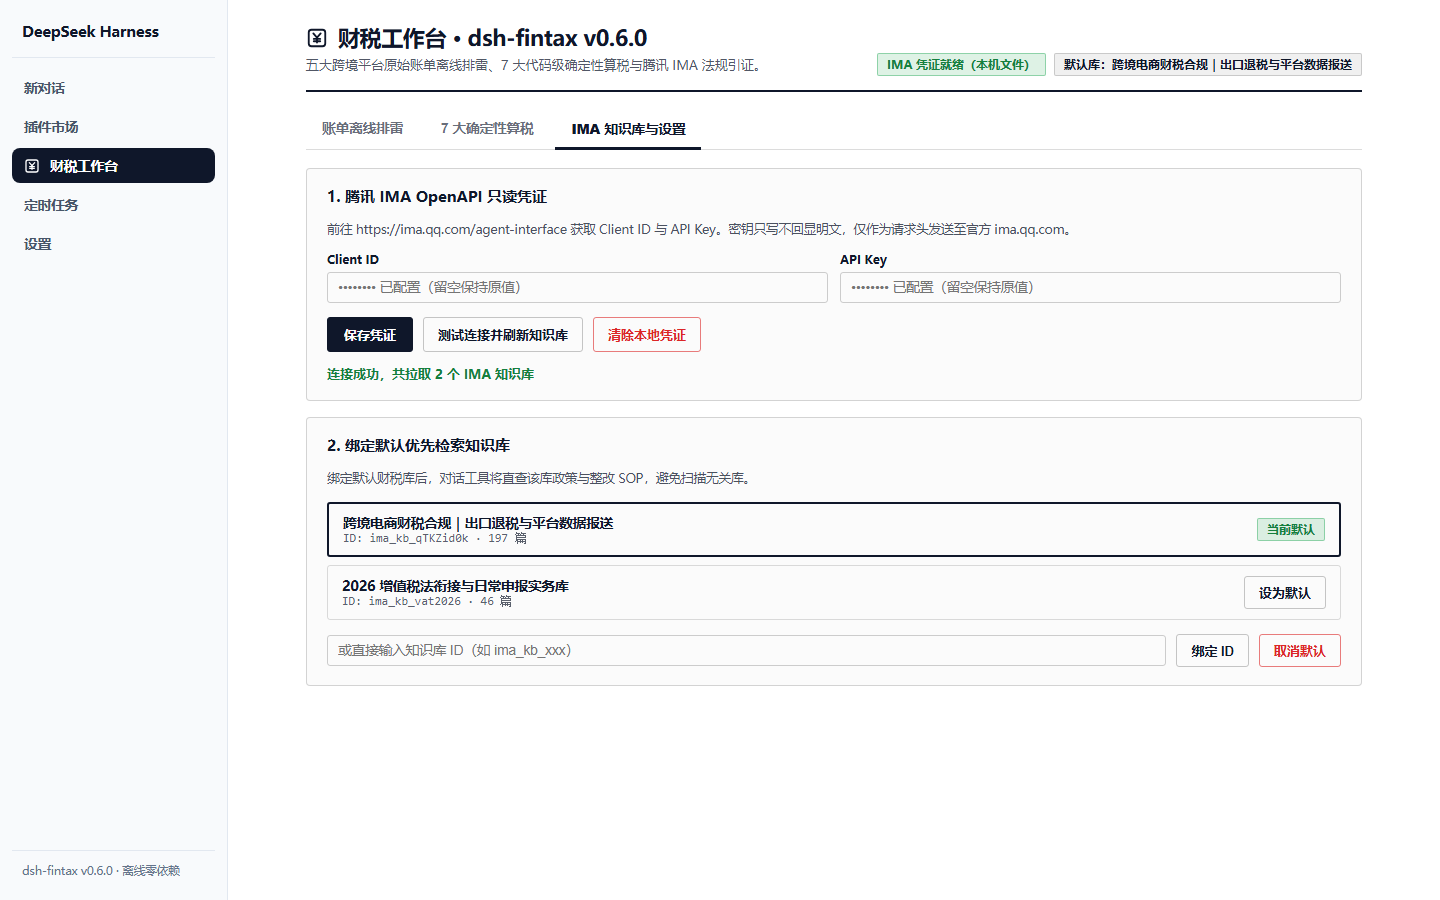
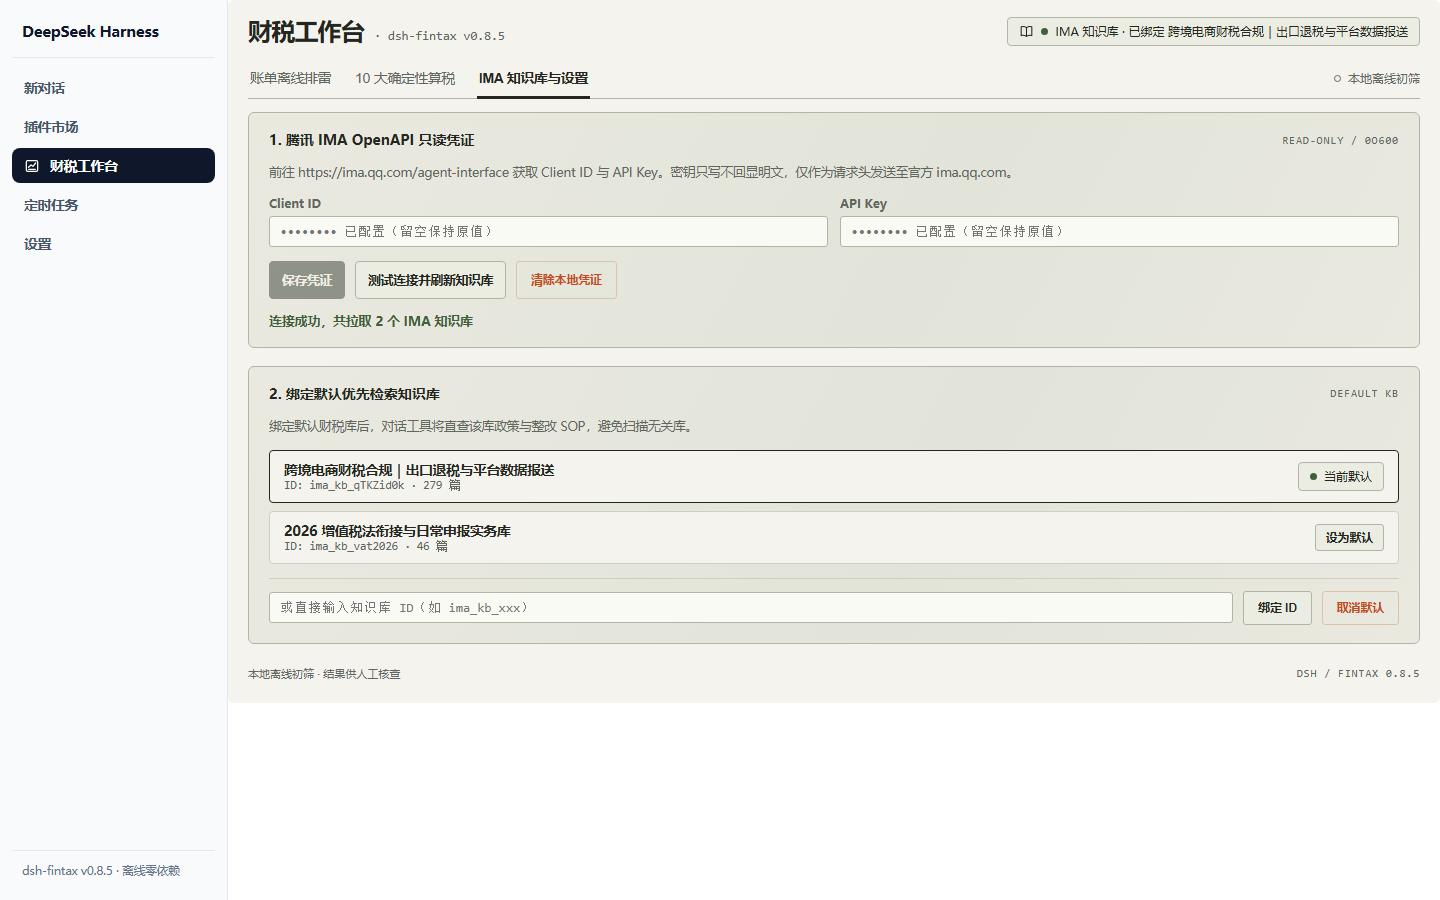
chore(release): release v0.8.5 IMA V2.4.1 retrieval sync, storefront refresh & issue templates

diff --git a/lib/ima.js b/lib/ima.js
@@ -390,20 +390,20 @@ const FIN_TAX_TERMS = [
   ['汇算', /汇算|年度汇缴/],
   ['开账', /开账|建账|新建账套/],
   ['月结', /月结|月底结账|锁表|月度关账/],
-  ['退运', /退运|退回国内|复运进境/],
+  ['退运', /退运|退回国内|复运进境|16号/],
   ['信保', /信保|出口信用保险/],
   ['免抵退', /免抵退|免、抵、退/],
   ['疑点反馈', /疑点.{0,4}反馈|疑点通知/],
   // V2.3 新增专题与高频政策短词锚点（顺序置于存量核心词之后，确保 25 题基线零回归）
-  ['欧盟低值包裹', /(?<!\d)(?:2|两|二)\s*欧|处理费|低值包裹/],
-  ['T86', /\bT86\b|小额豁免|(?:800|八百)\s*(?:美[元金]|\$)/i],
+  ['欧盟低值包裹', /(?<!\d)(?:2|两|二)\s*欧|处理费|低值包裹|临时关税|\bPID\b|\bC12[78]\b/i],
+  ['T86', /\bT86\b|小额豁免|(?:800|八百)\s*(?:美[元金]|\$)|\bIEEPA\b|\bCAPE\b|4811|301.{0,6}豁免|对等关税/i],
   ['全托管', /全托管|半托管|\bTemu\b|\bSHEIN\b/i],
   ['独立站', /独立站|\bShopify\b|支付网关/i],
   ['数字产品', /数字产品|\bSaaS\b|短剧|App\s*Store|Stripe\s*Tax/i],
   ['加计扣除', /加计扣除|研发费用|高新资质/],
   ['海关稽查', /海关稽查|特许权使用费|归类预裁定/],
   ['买单', /买单|无票采购/],
-  ['退税率调整', /29号|退税率.{0,6}(?:调整|取消|下调)/],
+  ['退税率调整', /29号|2号公告|2026\s*#?\s*2(?:\b|号)|362.{0,6}(?:税号|项)|退税.{0,4}归零|退税率.{0,6}(?:调整|取消|下调)/],
   ['缺票', /缺票|无票支出/],
   ['离岸豁免', /离岸豁免|\bODI\b|37号文/i],
   ['新加坡', /新加坡|\bCFC\b/i],
@@ -425,6 +425,13 @@ const FIN_TAX_TERMS = [
   ['测评', /测评|\bVine\b|站外返现/i],
   ['股权激励', /股权激励|持股平台|股份支付/],
   ['即征即退', /即征即退|嵌入式软件|技术先进型/],
+  // V2.4.1 财税热点与财政部原版 PDF 清单短词锚点（均经实库标题命中核验）
+  ['电池', /电池|锂电|储能|8507/],
+  ['消费税', /消费税|20号|高档化妆品|涂料/],
+  ['电子烟', /电子烟|85434000/],
+  ['光伏', /光伏|249项/],
+  ['增值税法', /增值税法|实施条例|第?39条/],
+  ['官方附件', /官方附件|原版\s*PDF|税号清单|竹木/i],
 ]
 
 const GENERAL_TAX_TERMS = [
@@ -440,7 +447,7 @@ const GENERAL_TAX_TERMS = [
   ['第三方收款', /第三方收款|个人(?:银行)?账户|代收款/],
   ['综试区', /综试区|综合试验区/],
   ['骗税', /骗税/],
-  ['美国关税', /美国.{0,8}关税|301.{0,4}关税|美线清关/],
+  ['美国关税', /美国.{0,8}关税|301.{0,6}(?:关税|豁免)|美线清关|\bIEEPA\b|\bCAPE\b|4811/i],
   ['香港', /香港/],
   ['核准回执', /核准回执|事前鉴定|核定鉴定/],
 ]

diff --git a/client.js b/client.js
@@ -591,7 +591,7 @@ window.__ModuleLoader__.load({
       .ftx-act:hover:not(:disabled) { background: var(--ftx-btn-hover); transform: translateY(-0.5px); }
       .ftx-act:disabled { opacity: 0.5; cursor: not-allowed; }
       .ftx-act.pri { background: var(--ftx-btn-pri-bg); color: var(--ftx-btn-pri-fg); border-color: var(--ftx-btn-pri-bg); }
-      .ftx-act.pri:hover:not(:disabled) { filter: brightness(1.08); }
+      .ftx-act.pri:hover:not(:disabled) { background: var(--ftx-btn-pri-bg); filter: brightness(1.12); }
       .ftx-act.drop { border-style: dashed; background: var(--ftx-paper); }
       .ftx-act.drop.is-drag { border-color: var(--ftx-orange); background: var(--ftx-gap-bg); }
       .ftx-btn-sm { padding: 5px 10px; border-radius: 3px; border: 1px solid var(--ftx-chassis-bd); background: var(--ftx-btn-bg); color: var(--ftx-ink); font-size: 11.8px; font-weight: 600; cursor: pointer; transition: all 0.14s; }

diff --git a/README.md b/README.md
@@ -1,9 +1,11 @@
-# dsh-fintax — 财税工作台 (v0.8.4)
+# dsh-fintax — 财税工作台 (v0.8.5)
 
 [![npm version](https://img.shields.io/npm/v/dsh-fintax)](https://www.npmjs.com/package/dsh-fintax)
 [![CI](https://github.com/fleekelon/dsh-fintax/actions/workflows/test.yml/badge.svg)](https://github.com/fleekelon/dsh-fintax/actions/workflows/test.yml)
 [![License: MIT](https://img.shields.io/badge/License-MIT-blue.svg)](LICENSE)
 [![DSH Plugin](https://img.shields.io/badge/DSH-plugin-4fc3f7)](https://github.com/topics/dsh-plugin)
+
+**交互式 3D 官网与实景演示**：<https://fleekelon.github.io/fintax-portal/>
 
 <img src="https://raw.githubusercontent.com/fleekelon/dsh-fintax/main/assets/icon.svg" width="80" alt="dsh-fintax icon">
 
@@ -31,9 +33,9 @@
   10. **增值税价税分离（`vat`）**。
 - **政策引证问答 & 监管代码决策树**：只读检索你 IMA 知识库里的政策原文与 SOP，回答附真实来源与文号。
 
-## 侧栏模拟截图（v0.8.1）
+## 侧栏实机截图（v0.8.5）
 
-以下截图来自侧栏模拟环境。
+以下截图采集自 `v0.8.5` 本地实机测试环境（`1440×900`）。
 
 1. **DSH 侧边栏独立财税工作台（Braun 精密仪表风格）— 11 通道离线排雷、三段资金链交叉核对、12 个月双指针红线雷达与趋势月报**：
 
@@ -94,6 +96,11 @@ dsh plugin --profile <你的profile> add github:fleekelon/dsh-fintax
 | `fintax-policy-qa` | 政策引证问答（新旧文件优先级 + 降级路径） |
 | `fintax-crossborder-check` | 跨境电商全链路合规自查报告（对齐 2026 现行法规） |
 | `fintax-mode-select` | 海关监管代码与出口模式决策树 |
+
+## 问题反馈与新渠道适配
+
+- **提交新平台/结汇通道脱敏表头**（例如连连国际 LianLian、PingPong、寻汇 SUNRATE 或欧洲本地站报表）：请前往 [GitHub Issue 表单](https://github.com/fleekelon/dsh-fintax/issues/new/choose) 选择 **「新平台 / 结汇通道脱敏表头提交」**，仅提供表头列名与 2 行虚构示例数据即可排期适配，切勿粘贴真实订单或账户隐私。
+- **报告算税边界或账单误报**：同样可通过上述表单选择 **「算税口径 / 账单误报 Bug 反馈」** 提交脱敏复现步骤。
 
 ## 免责声明
 

diff --git a/CHANGELOG.md b/CHANGELOG.md
@@ -2,6 +2,16 @@
 
 All notable changes to `dsh-fintax` will be documented in this file.
 
+## [0.8.5] - 2026-11-21
+
+- **IMA V2.4.1 热点短词检索与内置技能口径同步 (`lib/ima.js`, `test/ima.test.js`, `skills/`)**：
+  - 在保留全部存量核心检索短词序零回归前提下，增补 `电池`、`消费税`、`电子烟`、`光伏`、`增值税法`、`官方附件` 等 6 组经实库标题验证的新短词锚点，并扩展 `退运`（`16号`）、`欧盟低值包裹`（`临时关税` / `PID` / `C127` / `C128`）、`T86`（`IEEPA` / `CAPE` / `4811` / `301豁免` / `对等关税`）、`退税率调整`（`2号公告` / `362项` / `退税归零`）与 `美国关税` 识别正则；
+  - 同步更新 `fintax-policy-qa` 与 `fintax-crossborder-check` 技能清单：覆盖 2026 年第 2 号/第 20 号/第 29 号退税率与电池消费税清单、美线 IEEPA/CAPE/Form 4811 证据链与欧盟低值包裹 PID 核验提示（严守商用护城河纪律，不引入任何私域公式或分录）。
+- **开源协作与生态门面刷新 (`.github/ISSUE_TEMPLATE/`, `client.js`, `README.md`, `package.json`, `docs/`)**：
+  - 修复工作台主按钮 `.ftx-act.pri:hover` 被通用 `.ftx-act:hover` 优先级覆盖导致悬停底色发白对比度下降的问题；
+  - 新增 GitHub Issue 脱敏反馈表单（`new-channel-header.yml` 与 `bug-report.yml`），支持连连/PingPong/寻汇等新渠道仅提交脱敏表头与 2 行虚构示例排期适配；
+  - 将 `homepage` 接入互动 3D 官网 <https://fleekelon.github.io/fintax-portal/>，更新 `docs/plugin-index.json` 并重拍 `v0.8.5` 实机 `1440×900` 展示大图。
+
 ## [0.8.4] - 2026-11-20
 
 - **IMA V2.3 知识库检索回退对齐 (`lib/ima.js`, `index.js`, `test/ima.test.js`)**：
